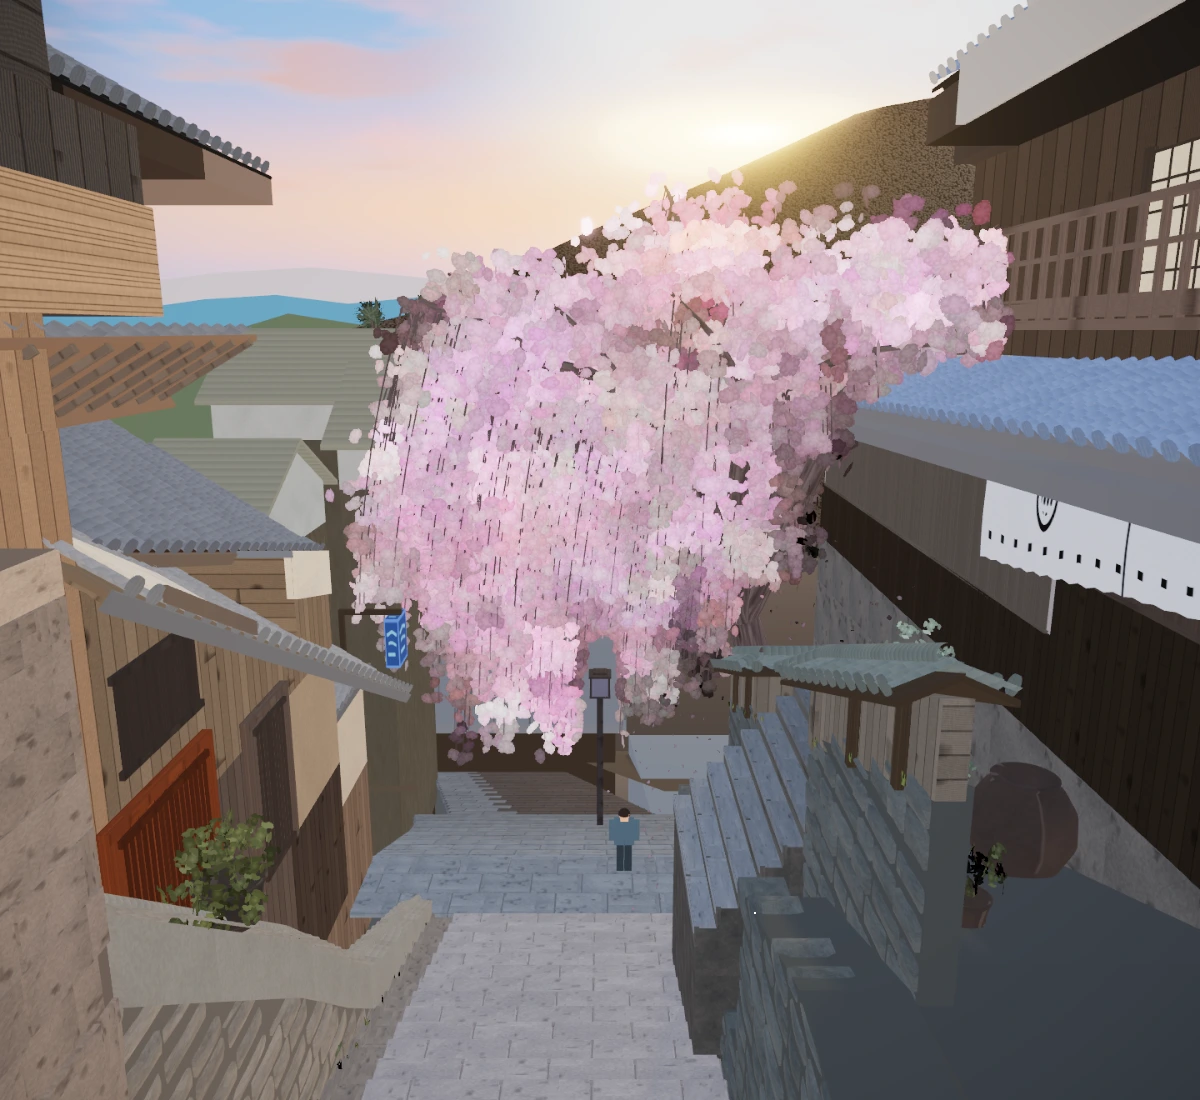
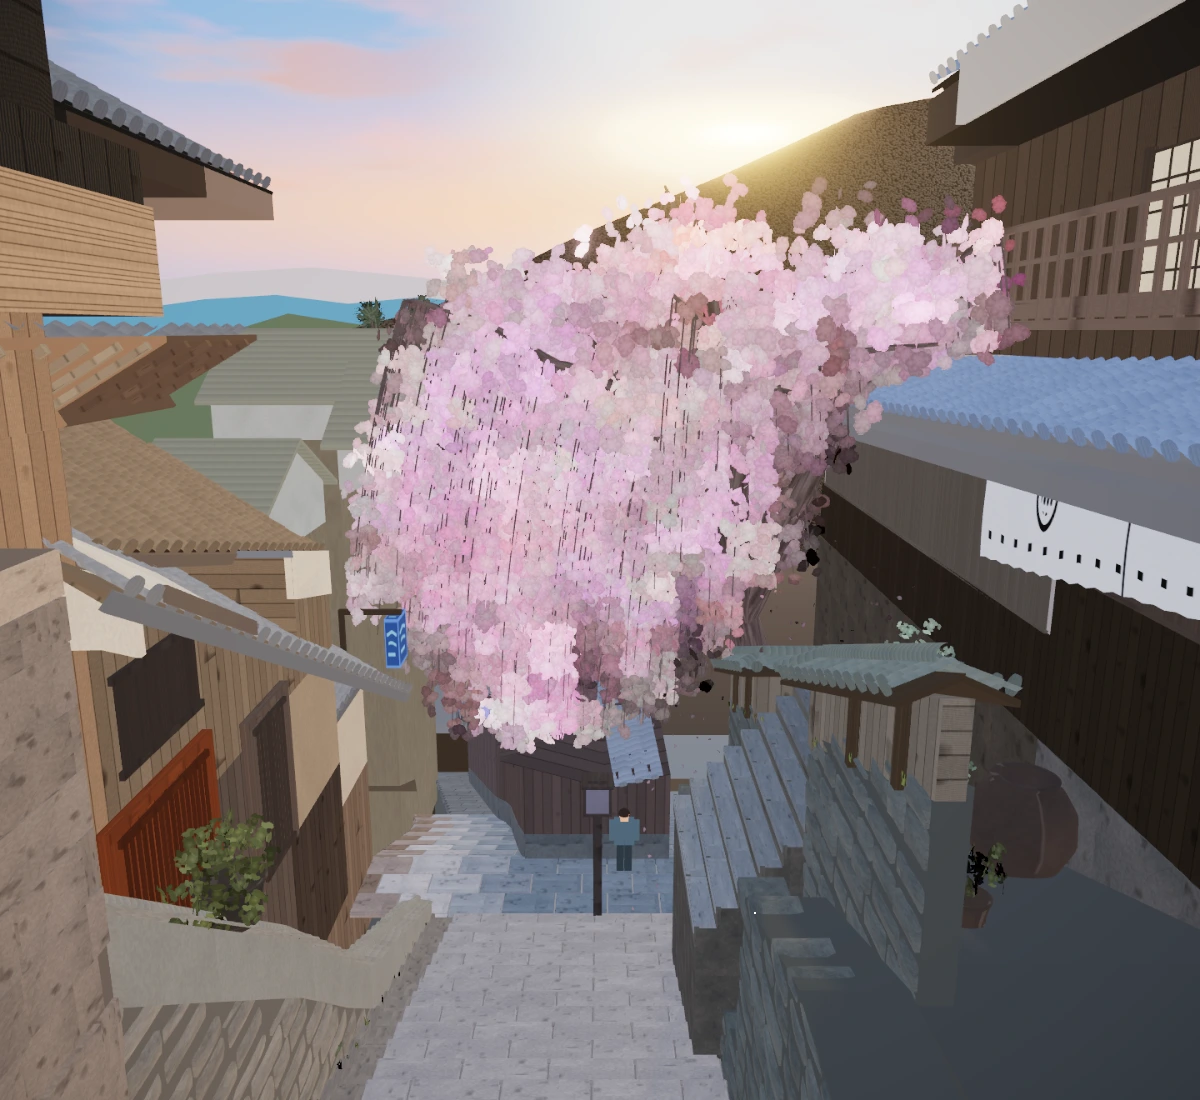
Refresh the tracked render and record the lane roster
docs/render.webp was iteration 1's render; iteration 2 changed the scene. The
plan now carries the lanes and the one-expensive-gate rule the canon received
today asks for, after two suites side by side crashed the browser.

diff --git a/docs/work/1_realism-and-content/plan.md b/docs/work/1_realism-and-content/plan.md
@@ -45,6 +45,16 @@ Per iteration, all of them, before the integration owner pushes:
 - [ ] Iteration 6, close-up realism: materials at orbit distance, tile and board edges, wood grain, foliage cards that hold up close.
 - [ ] Then the loop again, from the heat map and the sweep.
 
+## Lanes
+
+One expensive gate runs on this machine at a time (a full `npm test`, or `animation`, `nudge`, `views` or `record` alone); a lane asks the integration owner for the slot before starting one and reports when it ends. Two suites side by side crashed the browser under `nudge` on 2026-09-15 and inflated `animation` fourfold. Lanes never share a file: scene lanes own `src/` and `docs/PLAN-scores.md`; tool lanes own `tools/`; the integration owner owns `AGENTS.md`, `docs/devlog/summary.md` and this file.
+
+| lane | owner | outcome | files | waiting on |
+| --- | --- | --- | --- | --- |
+| iteration 3 | worker iter3-right-side, worktree from e580a92 | right-side stone and kawara, two iteration-1 survivors, shopfronts on the far row | src/, PLAN-scores.md, its devlog | the gate slot when it runs a suite |
+| gpu-gates | worker gpu-gates, worktree from 1e3f03b | every gate whose verdict allows it renders on the GPU; shot and compare stay on SwiftShader | tools/, AGENTS.md Gates, gate-proofs | the gate slot, by request to the integration owner |
+| integration | this session | merge, suite in the primary checkout, push, CI to a conclusion | the primary checkout | each lane's handoff |
+
 ## Outcome
 
 Iteration 1, merged as cb9a17c. Cell distance 0.0812 to 0.0768 and SSIM 0.4401 to 0.4559, both targets met; thresholds tightened to 0.0783 and 0.4509. The twenty worst cells fall 26% in summed distance. `tools/views.js` now renders seven poses to `out/views/`.
